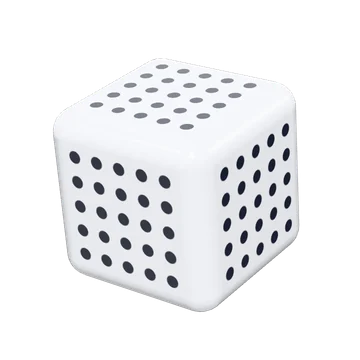
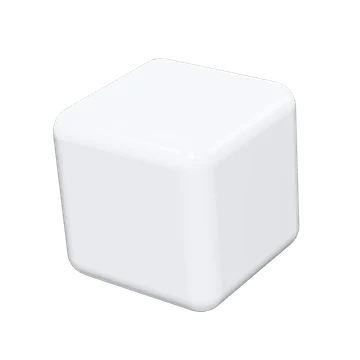
Plain white block, share image with the cube
The perforated white block alone looked like a die, so the lone white block is plain
glossy white now (the hero cube keeps its perforated blocks). The share image shows
the hero cube instead of the stones, and the last stones picture is gone.

diff --git a/scripts/3d/og-image.html b/scripts/3d/og-image.html
@@ -6,13 +6,13 @@ body{width:1200px;height:630px;overflow:hidden;background:#EDEFF6;color:#0E1018;
 .wmw{position:absolute;left:48px;right:48px;top:44px;container-type:inline-size}
 .wm{display:block;font-weight:700;font-size:14.4cqi;line-height:.82;letter-spacing:-.02em;text-transform:uppercase;white-space:nowrap}
 .claim{position:absolute;left:48px;top:300px;width:520px;font-weight:500;font-size:44px;line-height:1.1;letter-spacing:-.02em}
-.stones{position:absolute;right:-30px;top:150px;width:700px}
+.cube{position:absolute;right:50px;top:160px;width:440px}
 .pill{position:absolute;left:48px;bottom:44px;background:#2433F0;color:#fff;border-radius:999px;padding:16px 28px;font-weight:500;font-size:24px}
 .url{position:absolute;left:48px;bottom:50px;font-weight:500;font-size:24px;color:#5a5f73}
 .rib{position:absolute;left:0;bottom:0;width:1200px;height:160px}
 </style></head><body>
 <div class="wmw"><span class="wm">Karatitsyn</span></div>
 <p class="claim">Shopify developer for brands that have outgrown their theme.</p>
-<img class="stones" src="file:///Users/kirilkaratitsyn/Documents/GitHub/portfolio-astro/public/source/3d/stones-1720.webp">
+<img class="cube" src="file:///Users/kirilkaratitsyn/Documents/GitHub/portfolio-astro/public/source/3d/cube-1120.webp">
 <span class="url">karatitsyn.com</span>
 </body></html>

diff --git a/src/lib/cube.ts b/src/lib/cube.ts
@@ -337,7 +337,7 @@ export function makeCube() {
  * few dozen pixels wide (the stat cards), where seven ribs or 25 holes would only be noise.
  */
 export const BLOCKS = {
-  white: { finish: 'perforated', small: 'white', rest: [0.5, -0.62, 0.08] },
+  white: { finish: 'white', small: 'white', rest: [0.5, -0.62, 0.08] },
   black: { finish: 'ink', small: 'ink', rest: [0.44, 0.68, -0.06] },
   cobalt: { finish: 'ribbed', small: 'ribbedWide', rest: [0.52, -0.78, 0.04] },
   cobalt2: { finish: 'cobalt', small: 'cobalt', rest: [0.4, 0.58, 0.1] },

diff --git a/README.md b/README.md
@@ -30,19 +30,19 @@ src/
   i18n/<язык>.json              # все остальные тексты сайта
   scripts/main.ts               # точка входа клиентского JS: после загрузки страницы подгружает motion и stage
   scripts/motion.ts             # GSAP + ScrollTrigger + SplitText + Lenis: анимации по скроллу и курсору
-  scripts/stage.ts              # three.js: живые камни в hero и шарики-иконки (одна WebGL-сцена на всё)
-  lib/stones.ts                 # форма камней (те же сиды, что у отрендеренных постеров)
+  scripts/stage.ts              # three.js: куб в hero, кубики, иконки, логотип и глобус (одна WebGL-сцена на всё)
+  lib/cube.ts                   # куб в hero и отдельные кубики по сайту
   sections/                     # секции страниц (Hero, WorkList, Numbers, Marquee, Feature, Services, Process, Reviews, FAQ, Contact …)
   views/                        # шаблоны страниц, общие для всех языков
   pages/                        # роуты: английский в корне, [lang]/ для de и uk
 public/                         # картинки, шрифты, robots.txt, llms.txt
-  source/3d/                    # постеры камней: первый кадр и запасной вариант (см. scripts/3d/README.md)
+  source/3d/                    # постеры 3D-объектов: первый кадр и запасной вариант (см. scripts/3d/README.md)
   source/thumbs/                # миниатюры скриншотов: node scripts/make-thumbs.mjs
 ```
 
 ## Анимации и 3D
 
-Это надстройка: без скриптов, при `prefers-reduced-motion` и без WebGL страница полностью читаема, а вместо живых камней остаются картинки-постеры. Скрытые стартовые состояния (`[data-reveal]`, `[data-split]`) работают только при классе `motion` на `<html>`: его ставит inline-скрипт в `<head>` и снимает через 7 секунд, если скрипты так и не стартовали. Хуки анимаций задаются атрибутами `data-*` в секциях. Тяжёлые модули грузятся после `load`, поэтому первый экран и LCP не зависят от них. Запасные шрифты подогнаны по ширине (`size-adjust` в `global.css`), чтобы текст не прыгал при загрузке шрифтов.
+Это надстройка: без скриптов, при `prefers-reduced-motion` и без WebGL страница полностью читаема, а вместо живых 3D-объектов остаются картинки-постеры. Скрытые стартовые состояния (`[data-reveal]`, `[data-split]`) работают только при классе `motion` на `<html>`: его ставит inline-скрипт в `<head>` и снимает через 7 секунд, если скрипты так и не стартовали. Хуки анимаций задаются атрибутами `data-*` в секциях. Тяжёлые модули грузятся после `load`, поэтому первый экран и LCP не зависят от них. Запасные шрифты подогнаны по ширине (`size-adjust` в `global.css`), чтобы текст не прыгал при загрузке шрифтов.
 
 ## Как добавить кейс
 

diff --git a/scripts/3d/README.md b/scripts/3d/README.md
@@ -7,7 +7,7 @@ Every 3D object on the site exists twice:
 
 Tone mapping is `NeutralToneMapping` at exposure 1 in the live renderer, and the posters are captured from it. ACES, used before, shifted the brand cobalt #2433F0 toward violet.
 
-`stones-1720.webp` is the picture of the stones that used to be in the hero. It stays only because `og-image.html` (the template of `public/og-image.jpg`) still uses it.
+`og-image.html` is the template of the share image `public/og-image.jpg` (1200 x 630, with the cube poster): open it in Chrome at 1200 x 630 and save a JPEG screenshot. Re-make it after changing the cube.
 
 ## Icons and the logo
 
@@ -25,6 +25,6 @@ Its poster, `public/source/3d/cube-560.webp` and `cube-1120.webp`, is captured f
 
 ## Blocks
 
-The small 3D objects around the site (stat cards, About, Feature, Contact, case pages) are single blocks of the hero cube, `makeBlock` in `src/lib/cube.ts`, placed with `src/components/Pebble.astro` (named after the pebbles they replaced). Same shape, finishes, lens and light as the cube: `white` is perforated white, `black` glossy ink, `cobalt` ribbed cobalt, `cobalt2` glossy cobalt. `<Pebble small>` (`data-pebble="<name>-small"`) is for blocks a few dozen pixels wide: plain white instead of the holes and three wide ribs instead of seven.
+The small 3D objects around the site (stat cards, About, Feature, Contact, case pages) are single blocks of the hero cube, `makeBlock` in `src/lib/cube.ts`, placed with `src/components/Pebble.astro` (named after the pebbles they replaced). Same shape, finishes, lens and light as the cube: `white` is plain glossy white (the perforated finish alone looked like a die), `black` glossy ink, `cobalt` ribbed cobalt, `cobalt2` glossy cobalt. `<Pebble small>` (`data-pebble="<name>-small"`) is for blocks a few dozen pixels wide: three wide ribs instead of seven.
 
 Their posters, `public/source/3d/block-<name>.webp` and `block-<name>-small.webp` (360 x 360), are captured from the live blocks at rest: build the site, serve it on port 4321, then `node scripts/3d/capture-blocks.mjs`.
